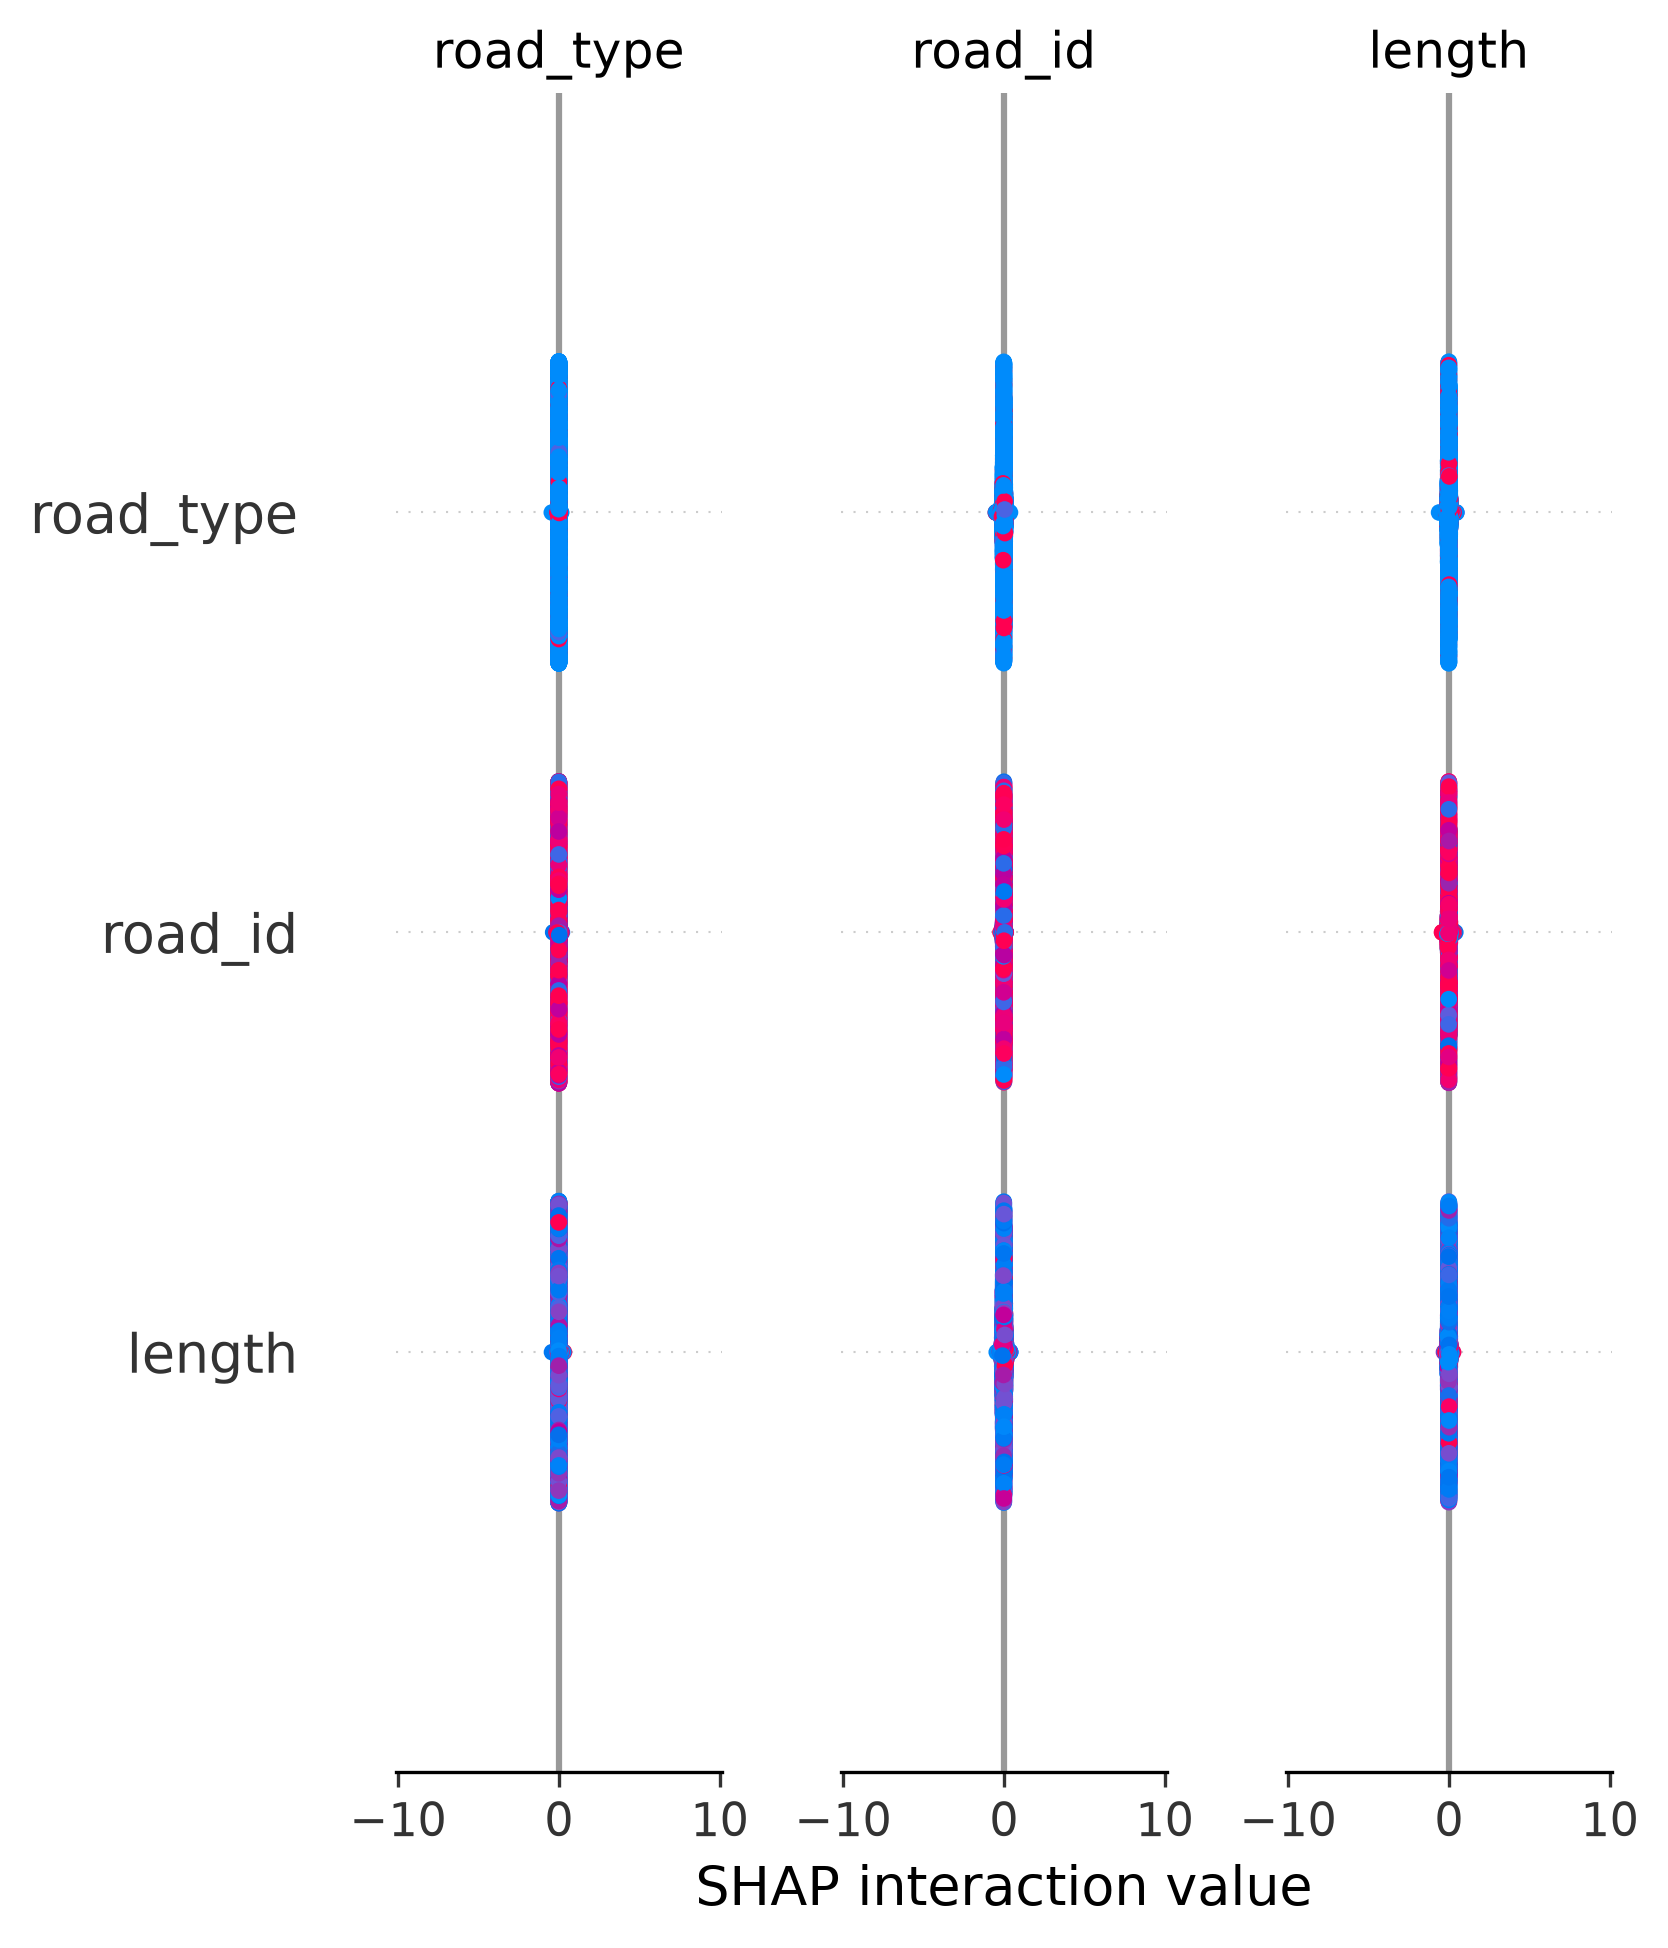
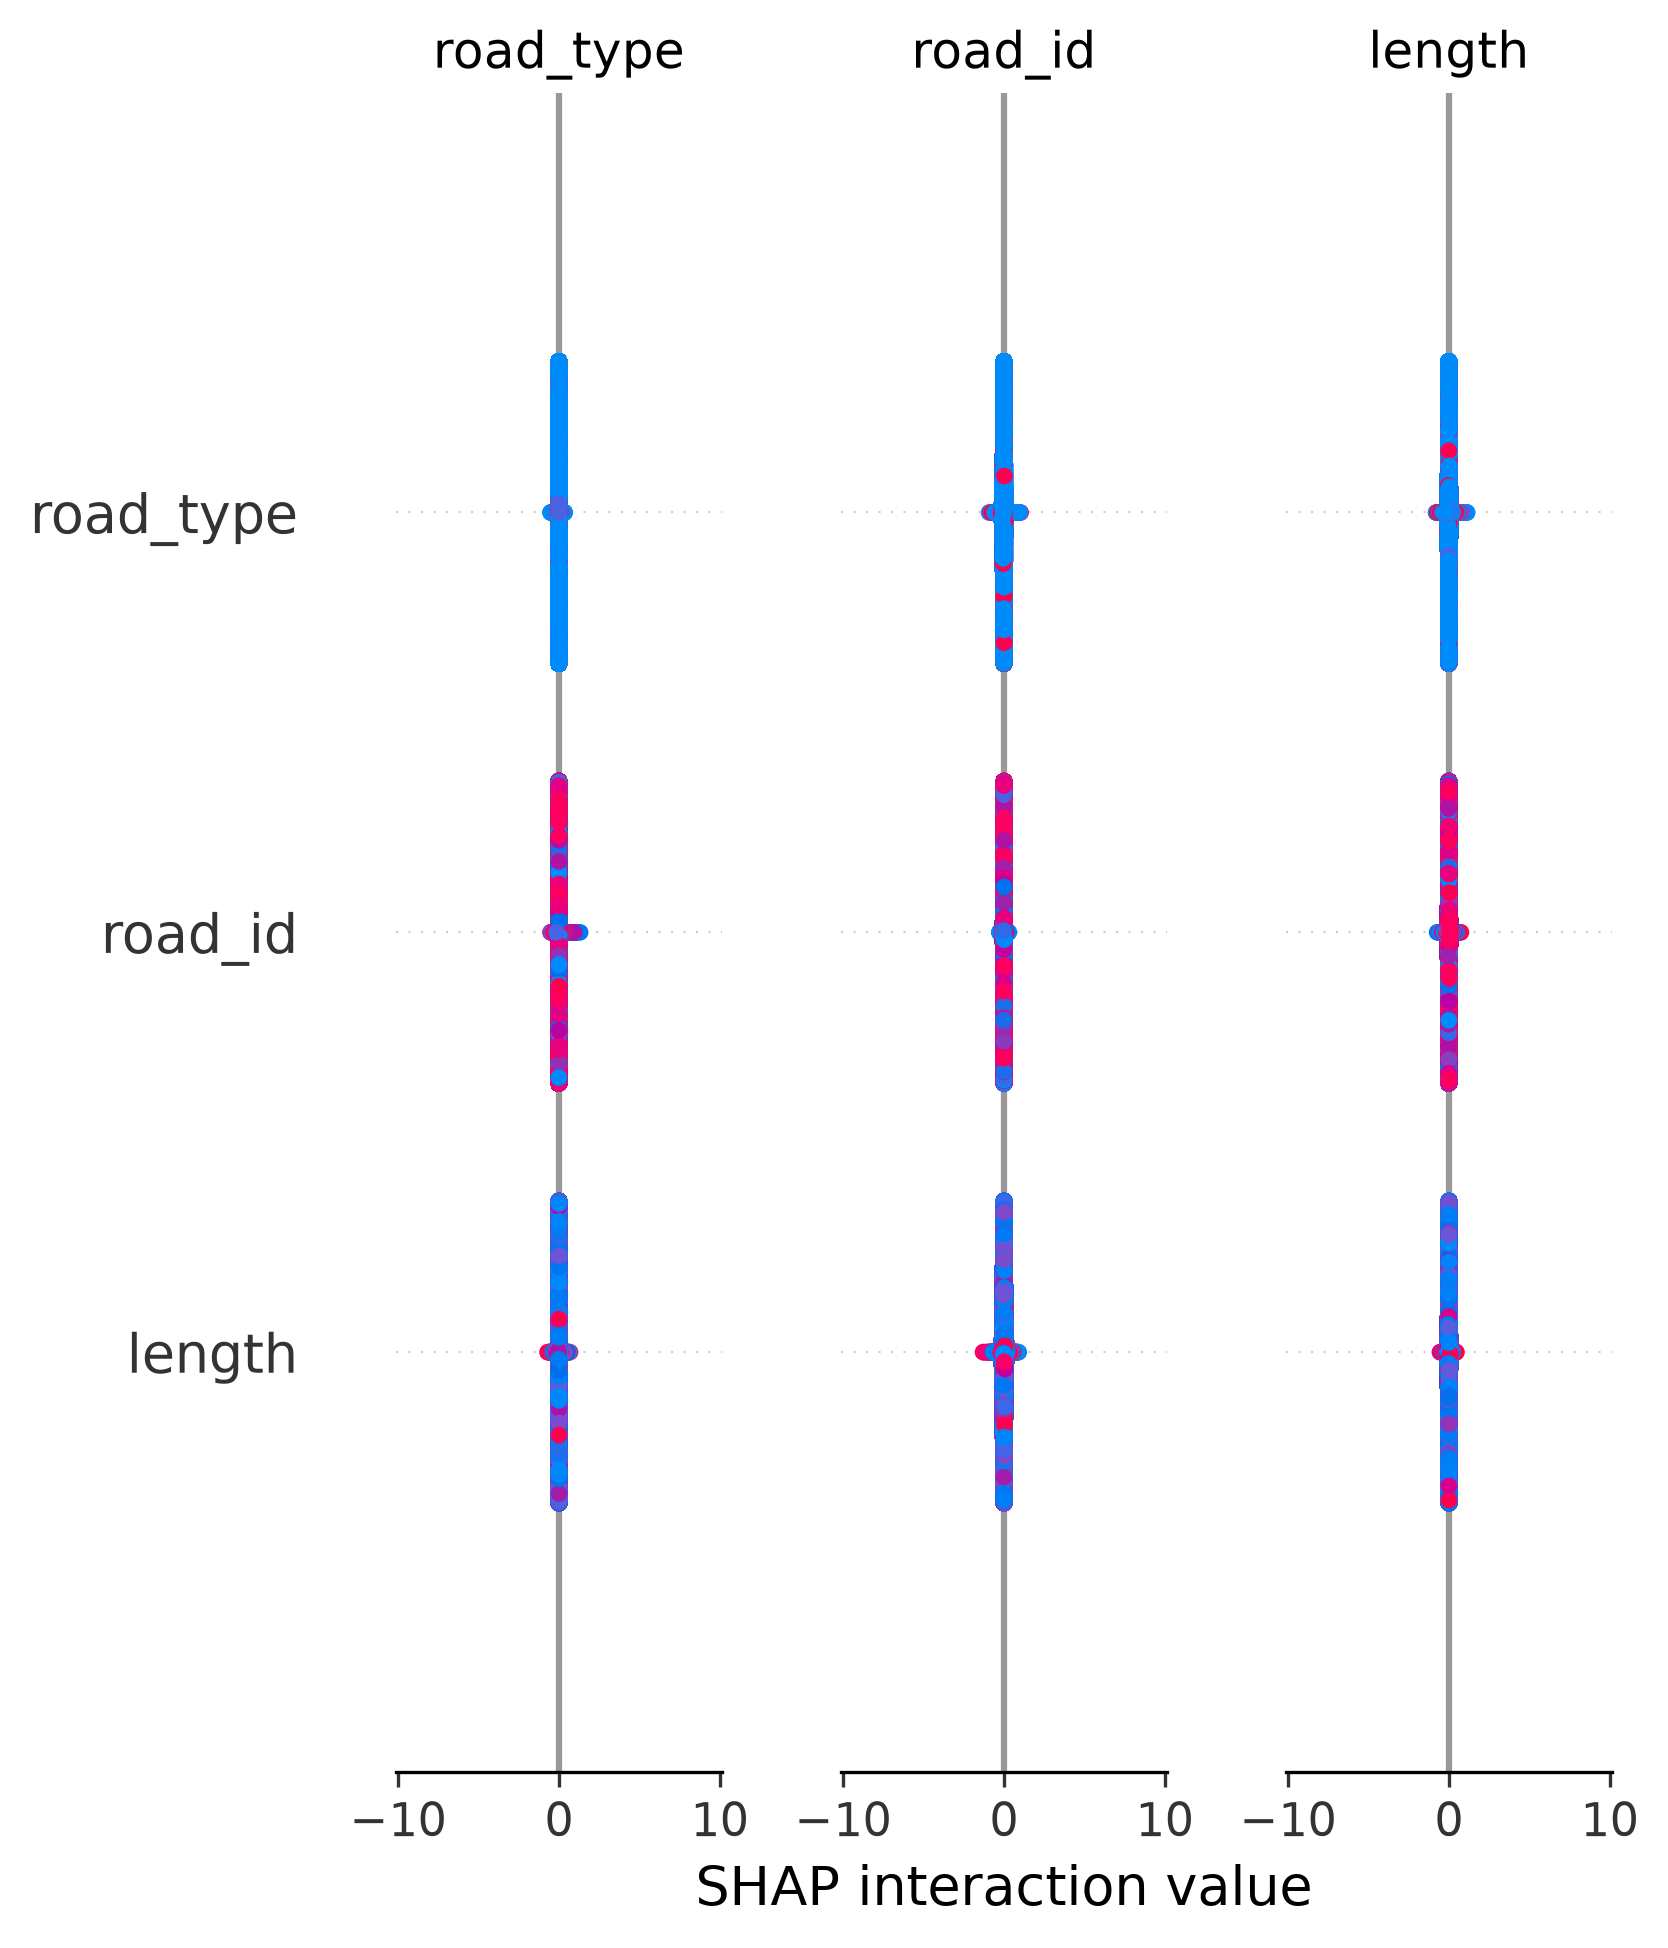
backend + uploading to supabase

diff --git a/scripts/import_all_to_supabase.py b/scripts/import_all_to_supabase.py
@@ -1,0 +1,82 @@
+import pandas as pd
+import geopandas as gpd
+from sqlalchemy import create_engine
+
+DATABASE_URL = (
+    "postgresql://postgres.qxgoagigfcnhawsuthvs:ktis_proj_1234"
+    "@aws-1-ap-south-1.pooler.supabase.com:6543/postgres"
+)
+
+engine = create_engine(DATABASE_URL)
+
+datasets = [
+    {
+        "table": "weather",
+        "path": "ml/datasets/weather_raw.csv",
+        "type": "csv"
+    },
+    {
+        "table": "holidays",
+        "path": "data/external/holidays.csv",
+        "type": "csv"
+    },
+    {
+        "table": "schools",
+        "path": "data/external/school_timings.csv",
+        "type": "csv"
+    },
+    {
+        "table": "offices",
+        "path": "data/external/office_timings.csv",
+        "type": "csv"
+    },
+    {
+        "table": "events",
+        "path": "data/external/events.csv",
+        "type": "csv"
+    },
+    {
+        "table": "traffic_dataset",
+        "path": "ml/datasets/final_dataset_encoded.csv",
+        "type": "csv"
+    }
+]
+
+print("=" * 60)
+print("Uploading CSV datasets")
+print("=" * 60)
+
+for d in datasets:
+
+    print(f"\nUploading {d['table']}...")
+
+    df = pd.read_csv(d["path"])
+
+    df.to_sql(
+        d["table"],
+        engine,
+        if_exists="replace",
+        index=False,
+        chunksize=5000,
+        method="multi"
+    )
+
+    print(f"✓ {len(df)} rows uploaded.")
+
+print("\nUploading roads...")
+
+roads = gpd.read_file("data/processed/roads_clean.geojson")
+
+roads.to_postgis(
+    "roads",
+    engine,
+    if_exists="replace",
+    index=False
+)
+
+print(f"✓ {len(roads)} roads uploaded.")
+
+print("\n")
+print("=" * 60)
+print("ALL DATA IMPORTED SUCCESSFULLY")
+print("=" * 60)

diff --git a/backend/predictor.py b/backend/predictor.py
@@ -1,0 +1,59 @@
+import joblib
+import pandas as pd
+
+model = joblib.load("ml/models/xgboost_model.pkl")
+
+
+def predict(data):
+
+    df = pd.DataFrame([data])
+
+    # columns used while training
+    df["road_id"] = 0
+
+    df["temperature_x"] = df.pop("temperature")
+    df["humidity_x"] = df.pop("humidity")
+    df["rain_x"] = df.pop("rain")
+    df["wind_speed_x"] = df.pop("wind_speed")
+    df["cloud_cover_x"] = df.pop("cloud_cover")
+
+    # API doesn't send these
+    df["morning_peak"] = 0
+    df["evening_peak"] = 0
+
+    # EXACT training order
+    df = df[
+        [
+            "road_id",
+            "road_type",
+            "length",
+            "lanes",
+            "maxspeed",
+            "temperature_x",
+            "humidity_x",
+            "rain_x",
+            "wind_speed_x",
+            "cloud_cover_x",
+            "hour",
+            "day",
+            "month",
+            "weekday",
+            "is_weekend",
+            "morning_peak",
+            "evening_peak",
+            "is_holiday",
+            "school_peak",
+            "office_peak",
+            "event",
+        ]
+    ]
+
+    prediction = model.predict(df)[0]
+
+    labels = {
+        0: "Low Traffic",
+        1: "Medium Traffic",
+        2: "High Traffic"
+    }
+
+    return labels[prediction]

diff --git a/backend/models.py b/backend/models.py
@@ -1,0 +1,39 @@
+from pydantic import BaseModel
+
+class PredictionRequest(BaseModel):
+
+    road_type: int
+
+    length: float
+
+    lanes: float
+
+    maxspeed: float
+
+    temperature: float
+
+    humidity: float
+
+    rain: float
+
+    wind_speed: float
+
+    cloud_cover: float
+
+    hour: int
+
+    day: int
+
+    month: int
+
+    weekday: int
+
+    is_weekend: int
+
+    is_holiday: int
+
+    school_peak: int
+
+    office_peak: int
+
+    event: int

diff --git a/backend/app.py b/backend/app.py
@@ -1,0 +1,34 @@
+from fastapi import FastAPI
+
+from backend.routers.prediction import router as prediction_router
+
+from backend.routers.weather import router as weather_router
+
+from backend.routers.roads import router as roads_router
+
+app = FastAPI(
+
+    title="Karachi Traffic Intelligence API",
+
+    version="1.0.0"
+
+)
+
+app.include_router(prediction_router)
+
+app.include_router(weather_router)
+
+app.include_router(roads_router)
+
+
[email redacted]("/")
+
+def home():
+
+    return {
+
+        "project": "Karachi Traffic Intelligence System",
+
+        "status": "Running"
+
+    }

diff --git a/backend/routers/weather.py b/backend/routers/weather.py
@@ -1,0 +1,19 @@
+from fastapi import APIRouter
+
+router = APIRouter()
+
[email redacted]("/weather")
+
+def weather():
+
+    return {
+
+        "temperature": 32,
+
+        "humidity": 68,
+
+        "rain": 0,
+
+        "wind_speed": 11
+
+    }

diff --git a/backend/routers/prediction.py b/backend/routers/prediction.py
@@ -1,0 +1,15 @@
+from fastapi import APIRouter
+
+from backend.models import PredictionRequest
+
+from backend.predictor import predict
+
+router = APIRouter()
+
[email redacted]("/predict")
+
+def make_prediction(request: PredictionRequest):
+
+    result = predict(request.dict())
+
+    return result

diff --git a/ml/feature_engineering/07_create_base_database.py b/ml/feature_engineering/07_create_base_database.py
@@ -1,17 +1,16 @@
 import pandas as pd
+from config import engine
 
 print("=" * 60)
 print("Creating Base Dataset...")
 print("=" * 60)
 
-# Load roads
-roads = pd.read_csv("ml/datasets/roads_raw.csv")
+# Load roads from Supabase
+roads = pd.read_sql("SELECT * FROM roads", engine)
 
-# Load weather
-weather = pd.read_csv(
-    "ml/datasets/weather_raw.csv",
-    parse_dates=["datetime"]
-)
+# Load weather from Supabase
+weather = pd.read_sql("SELECT * FROM weather", engine)
+weather["datetime"] = pd.to_datetime(weather["datetime"])
 
 print(f"Roads: {len(roads):,}")
 print(f"Weather Records: {len(weather):,}")
@@ -41,7 +40,7 @@ for _, road in roads.iterrows():
 
         rows.append({
 
-            "road_id": road["road_osm_id"],
+            "road_id": road["road_id"],
 
             "road_name": road["road_name"],
 

diff --git a/backend/routers/roads.py b/backend/routers/roads.py
@@ -1,0 +1,14 @@
+from fastapi import APIRouter
+
+import pandas as pd
+
+router = APIRouter()
+
+roads = pd.read_csv("ml/datasets/roads_raw.csv")
+
+
[email redacted]("/roads")
+
+def get_roads(limit: int = 100):
+
+    return roads.head(limit).to_dict(orient="records")

diff --git a/ml/feature_engineering/09_merge_weather.py b/ml/feature_engineering/09_merge_weather.py
@@ -1,4 +1,5 @@
 import pandas as pd
+from config import engine
 
 print("=" * 60)
 print("Merging Weather Data...")
@@ -9,10 +10,8 @@ base = pd.read_csv(
     parse_dates=["prediction_datetime"]
 )
 
-weather = pd.read_csv(
-    "ml/datasets/weather_raw.csv",
-    parse_dates=["datetime"]
-)
+weather = pd.read_sql("SELECT * FROM weather", engine)
+weather["datetime"] = pd.to_datetime(weather["datetime"])
 
 print("Base:", base.shape)
 print("Weather:", weather.shape)

diff --git a/ml/feature_engineering/10_merge_holidays.py b/ml/feature_engineering/10_merge_holidays.py
@@ -1,4 +1,5 @@
 import pandas as pd
+from config import engine
 
 print("=" * 60)
 print("Merging Holiday Data...")
@@ -9,10 +10,8 @@ base = pd.read_csv(
     parse_dates=["prediction_datetime"]
 )
 
-holidays = pd.read_csv(
-    "ml/datasets/holidays_raw.csv",
-    parse_dates=["holiday_date"]
-)
+holidays = pd.read_sql("SELECT * FROM holidays", engine)
+holidays["holiday_date"] = pd.to_datetime(holidays["holiday_date"])
 
 # Extract date only
 base["date"] = base["prediction_datetime"].dt.date

diff --git a/ml/feature_engineering/13_merge_events.py b/ml/feature_engineering/13_merge_events.py
@@ -1,4 +1,5 @@
 import pandas as pd
+from config import engine
 
 print("=" * 60)
 print("Merging Events...")
@@ -9,10 +10,8 @@ df = pd.read_csv(
     parse_dates=["prediction_datetime"]
 )
 
-events = pd.read_csv(
-    "ml/datasets/events_raw.csv",
-    parse_dates=["event_date"]
-)
+events = pd.read_sql("SELECT * FROM events", engine)
+events["event_date"] = pd.to_datetime(events["event_date"])
 
 # Extract date
 df["date"] = df["prediction_datetime"].dt.date

diff --git a/ml/feature_engineering/11_merge_school.py b/ml/feature_engineering/11_merge_school.py
@@ -1,4 +1,5 @@
 import pandas as pd
+from config import engine
 
 print("=" * 60)
 print("Merging School Timings...")
@@ -9,9 +10,7 @@ df = pd.read_csv(
     parse_dates=["prediction_datetime"]
 )
 
-schools = pd.read_csv(
-    "ml/datasets/school_timings_raw.csv"
-)
+schools = pd.read_sql("SELECT * FROM school_timings", engine)
 
 # Initialize
 df["school_peak"] = 0